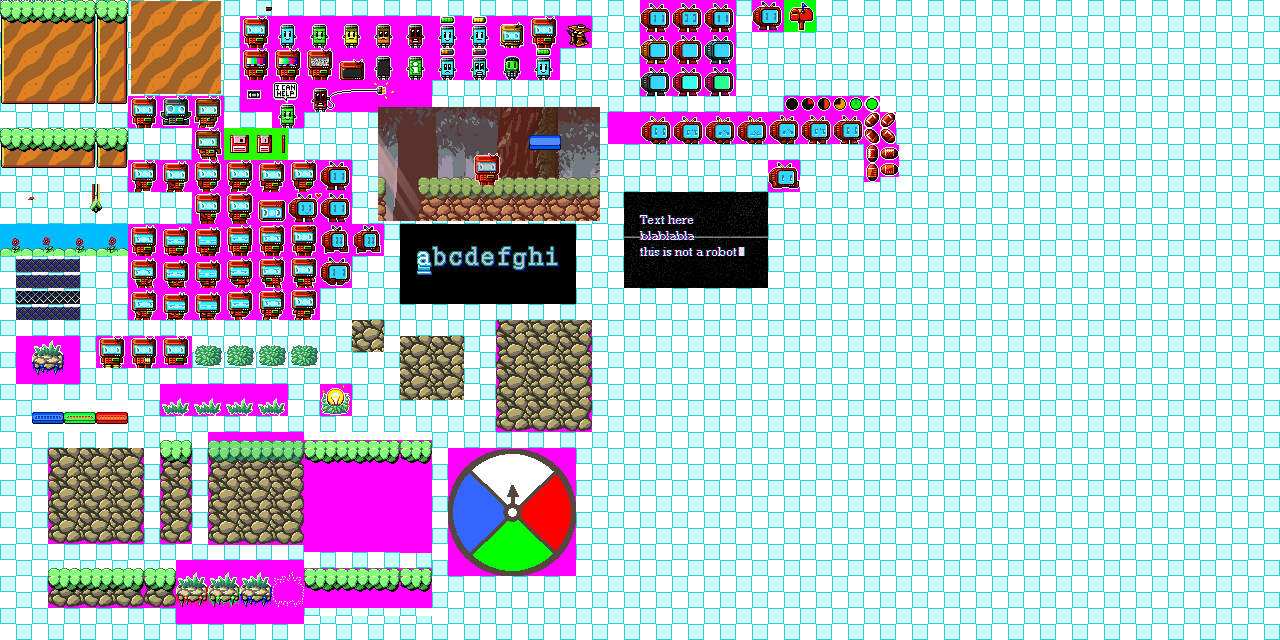
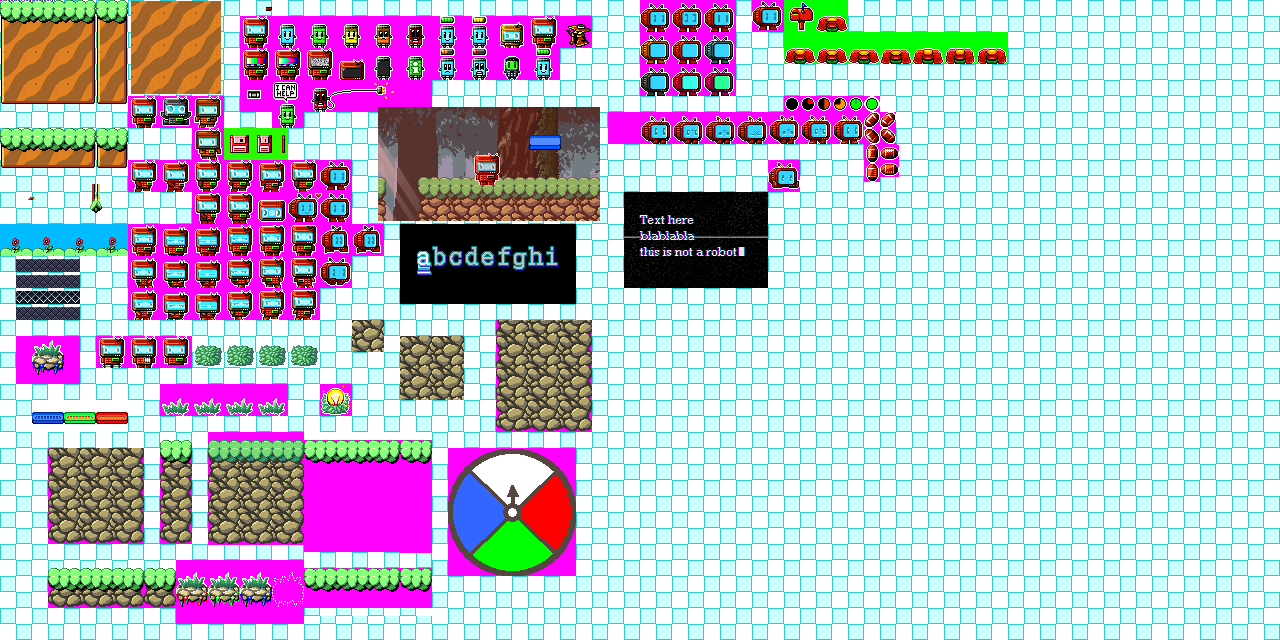
colorfilter update ongoing ! PRESS 1, 2 or 3 !

Changed region(s): [[0.5938, 0.0, 0.8125, 0.125]]

diff --git a/The-Game/constants/constants.py b/The-Game/constants/constants.py
@@ -29,9 +29,9 @@ WAKE_UP_STYLE = {}
 
     #Level select style
 style = "simple"
-MAP_STYLE[style] = "002"
-BASE_BACK_STYLE[style] = "001"
-BACK_STYLE[style] = []
+MAP_STYLE[style] = "006"
+BASE_BACK_STYLE[style] = "forest_017"
+BACK_STYLE[style] = ["forest_016","forest_015","forest_014"]
 FRONT_STYLE[style] = "001"
 TILE_STYLE[style] = "003"
 ELEMENT_STYLE[style] = "001"
